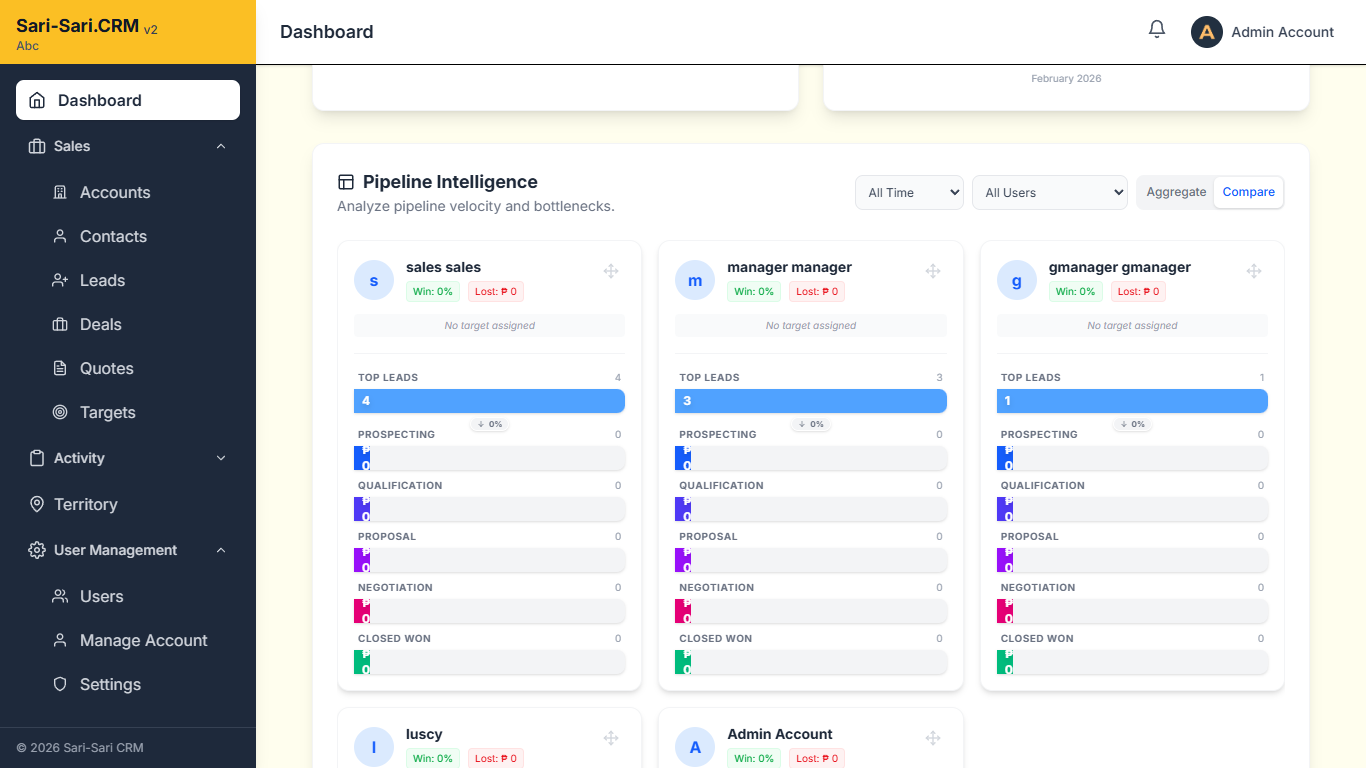
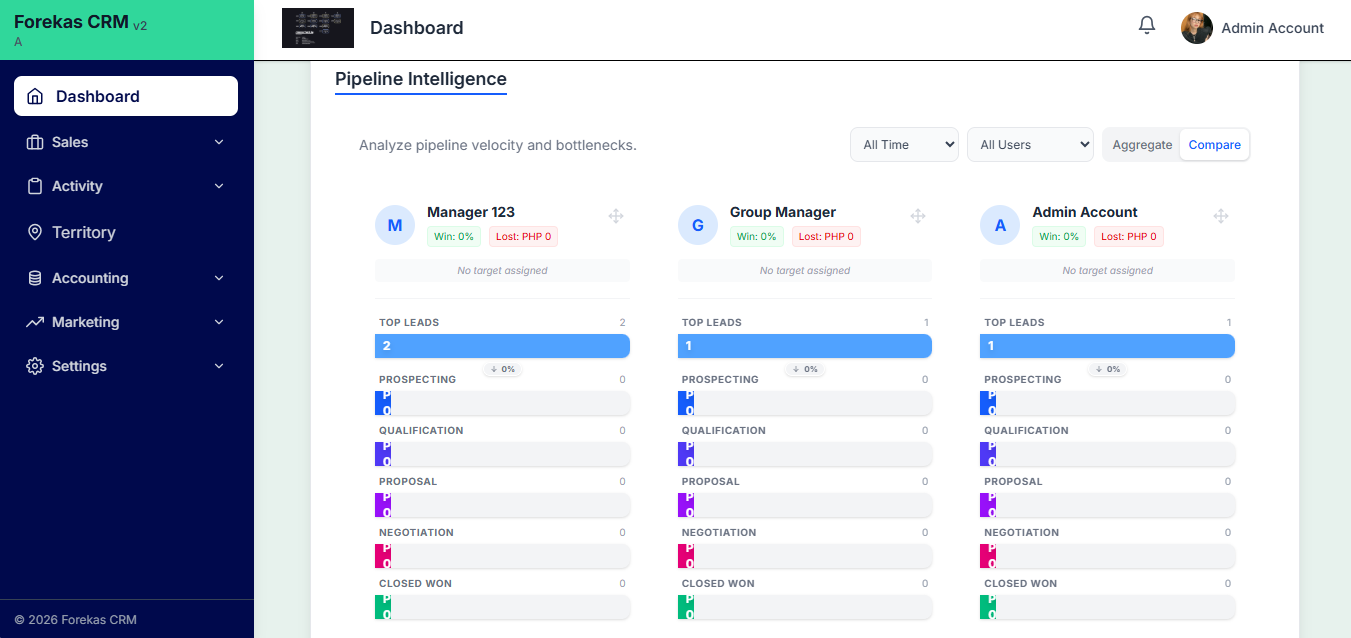
refactor: update branding from Sari-Sari CRM to Forekas CRM across multiple components and pages

diff --git a/frontend/src/components/TechnicalSupportPanel.jsx b/frontend/src/components/TechnicalSupportPanel.jsx
@@ -32,7 +32,7 @@ export default function TechnicalSupportPanel() {
   }, [user]);
 
   useEffect(() => {
-    document.title = `Technical Support | Sari-Sari CRM`;
+    document.title = `Technical Support | Forekas CRM`;
   }, []);
 
   const ticketRoutes = [
@@ -74,7 +74,7 @@ export default function TechnicalSupportPanel() {
       >
         {/* Logo */}
         <div className="px-4 py-3 bg-[#fbbf24] leading-none">
-          <p className="text-gray-900 font-bold text-lg m-0 p-0"> Sari-Sari.CRM{" "}
+          <p className="text-gray-900 font-bold text-lg m-0 p-0"> Forekas CRM{" "}
             <span className="text-[12px] text-gray-700 font-medium align-bottom">
               v2
             </span>

diff --git a/frontend/src/pages/Resources.jsx b/frontend/src/pages/Resources.jsx
@@ -186,12 +186,12 @@ const SupportModal = ({ isOpen, onClose }) => {
          <strong key="dept">Forekas CRM Administration</strong>,
     <a
       key="email"
-      href="https://www.sari-sari.com/"
+      href="https://crm.forekas.com/"
       className="font-bold text-accent hover:underline"
        target="_blank"
        rel="noopener noreferrer"
     >
-      sari-sari.com
+      crm.forekas.com
     </a>,
         "Providing clear details helps accelerate resolution."
       ]

diff --git a/frontend/src/pages/Legal.jsx b/frontend/src/pages/Legal.jsx
@@ -102,12 +102,12 @@ const TermsModal = ({ isOpen, onClose }) => {
         <strong key="dept">Forekas CRM Administration</strong>,
     <a
       key="email"
-      href="https://www.sari-sari.com/"
+      href="https://crm.forekas.com/"
       className="font-bold text-accent hover:underline"
        target="_blank"
        rel="noopener noreferrer"
     >
-      sari-sari.com
+      crm.forekas.com
     </a>
       ]
     }

diff --git a/frontend/src/pages/MarketingAccounts.jsx b/frontend/src/pages/MarketingAccounts.jsx
@@ -12,7 +12,7 @@ import { HiArrowLeft } from "react-icons/hi";
 
 export default function MarketingAccounts() {
   useEffect(() => {
-    document.title = "Accounts | Sari-Sari CRM";
+    document.title = "Accounts | Forekas CRM";
   }, []);
 
   const [selectedAccount, setSelectedAccount] = useState(null);

diff --git a/frontend/src/pages/MarketingTask.jsx b/frontend/src/pages/MarketingTask.jsx
@@ -255,7 +255,7 @@ const mapBackendTaskToFrontend = (task) => {
 
 export default function AdminTask() {
   useEffect(() => {
-    document.title = "Tasks | Sari-Sari CRM";
+    document.title = "Tasks | Forekas CRM";
   }, []);
 
   const { user: currentUser, loading: userLoading } = useFetchUser();

diff --git a/frontend/src/pages/MarketingCampaign.jsx b/frontend/src/pages/MarketingCampaign.jsx
@@ -11,7 +11,7 @@ import { HiArrowLeft } from "react-icons/hi";
 
 export default function MarketingCampaign() {
   useEffect(() => {
-    document.title = "Campaign | Sari-Sari CRM";
+    document.title = "Campaign | Forekas CRM";
   }, []);
 
   const [showModal, setShowModal] = useState(false);

diff --git a/frontend/src/pages/MarketingContacts.jsx b/frontend/src/pages/MarketingContacts.jsx
@@ -15,7 +15,7 @@ import { BsBuilding } from "react-icons/bs";
 
 export default function MarketingContacts() {
   useEffect(() => {
-    document.title = "Contacts | Sari-Sari CRM";
+    document.title = "Contacts | Forekas CRM";
   }, []);
 
   const [showModal, setShowModal] = useState(false);

diff --git a/frontend/src/utils/printQuoteInvoice.js b/frontend/src/utils/printQuoteInvoice.js
@@ -444,7 +444,7 @@ export function printQuoteInvoice({
       ` : ""}
 
       <div class="footer">
-        Generated from Sari-Sari CRM quote. This printout is for business use.
+        Generated from Forekas CRM quote. This printout is for business use.
       </div>
     </div>
   </body>

diff --git a/frontend/src/pages/MarketingTemplates.jsx b/frontend/src/pages/MarketingTemplates.jsx
@@ -42,7 +42,7 @@ const categoryColors = {
 
 export default function MarketingTemplates() {
   useEffect(() => {
-    document.title = "Templates | Sari-Sari CRM";
+    document.title = "Templates | Forekas CRM";
   }, []);
 
   const [templates, setTemplates] = useState(initialTemplates);

diff --git a/frontend/src/pages/SuperAdminUsers.jsx b/frontend/src/pages/SuperAdminUsers.jsx
@@ -193,7 +193,7 @@ export default function SuperAdminUsers() {
   }, [fetchUsers]);
 
   useEffect(() => {
-    document.title = "Admin and Super Admin | Sari-Sari CRM";
+    document.title = "Admin and Super Admin | Forekas CRM";
   }, []);
 
   const filteredUsers = useMemo(() => {

diff --git a/frontend/src/pages/SuperAdminAnnouncements.jsx b/frontend/src/pages/SuperAdminAnnouncements.jsx
@@ -32,7 +32,7 @@ export default function SuperAdminAnnouncements() {
   const [reloadKey, setReloadKey] = useState(0);
 
   useEffect(() => {
-    document.title = 'Announcements | Sari-Sari CRM';
+    document.title = 'Announcements | Forekas CRM';
   }, []);
 
   useEffect(() => {

diff --git a/frontend/src/pages/SalesContacts.jsx b/frontend/src/pages/SalesContacts.jsx
@@ -73,7 +73,7 @@ export default function AdminContacts() {
   const location = useLocation();
 
   useEffect(() => {
-    document.title = "Contacts | Sari-Sari CRM";
+    document.title = "Contacts | Forekas CRM";
   }, []);
 
   const [contacts, setContacts] = useState([]);
